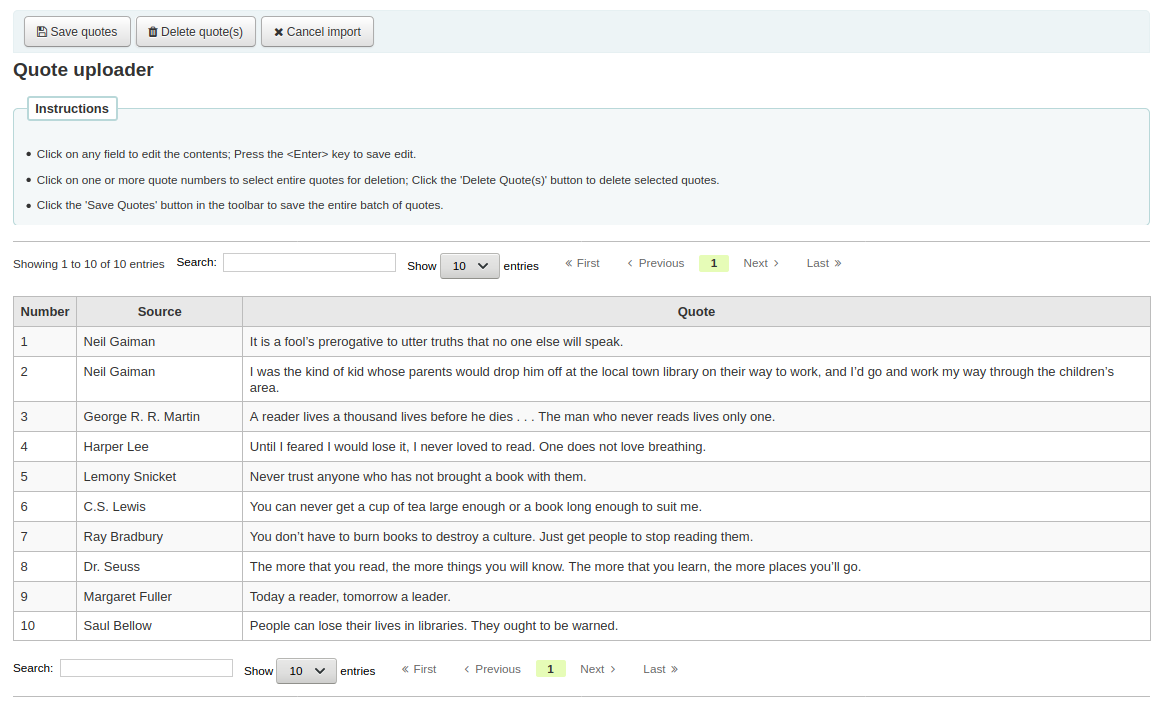
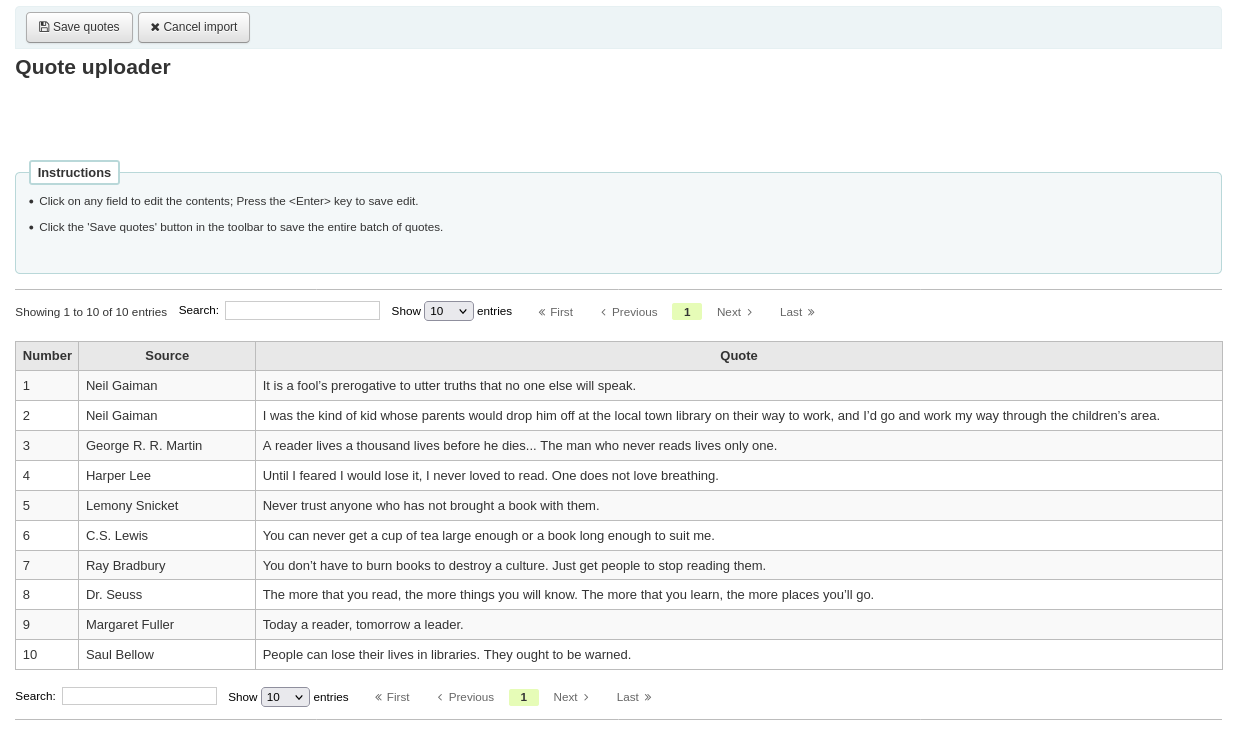
Review of QOTD tool

diff --git a/source/tools.rst b/source/tools.rst
@@ -3971,7 +3971,7 @@ Edit quotes for QOTD feature
 This tool will allow you to add and edit quotes to show on the OPAC or the 
 staff interface.
 
-|image1514|
+|qotdeditor|
 
 To turn this feature on set the :ref:`QuoteOfTheDay` system preference to 
 either 'OPAC', 'staff interface', or both, and add at least one quote using this 
@@ -3993,28 +3993,27 @@ Add a quote
 
 To add a quote:
 
--  Click the 'Add quote' button in the toolbar and an empty quote entry
-   will be added to the end of the current quote list.
+-  Click the 'New quote' button in the toolbar.
 
-   |image396|
+   |quotebuttons|
+   
+-  Fill out the form.
 
-   **Important**
+   |newquote|
 
-   Both the 'Source' and the 'Text' fields must be filled in in
-   order to save the new quote.
+   -  Source: enter the source of the quote, e.g. the name of the person who 
+      said the quote
+      
+   -  Text: enter the text of the quote
 
-   |image397|
+   .. Warning::
 
--  When finished filling in both fields, press the <Enter> key on your
-   keyboard to save the new quote.
+      Both the 'Source' and the 'Text' fields must be filled in in
+      order to save the new quote.
 
--  The list will update and the new quote should now be visible in the
-   list.
+-  Click 'Submit' to save the new quote.
 
-    **Note**
-
-    You may cancel the addition of a new quote any time prior to saving
-    it simply by pressing the <Esc> key on your keyboard.
+-  The new quote should now be visible in the list.
 
 .. _import-quotes-label:
 
@@ -4024,82 +4023,62 @@ Import quotes
 You can import a batch of quotes as a CSV file. Your file must contain two 
 columns in the form: "source","text" with no header row.
 
-    **Note**
+.. Note::
 
-    You will be prompted to confirm upload of files larger than 512KB.
+   You will be prompted to confirm upload of files larger than 512KB.
 
 -  To start the import process click the 'Import quotes' button at the
    top of the screen
 
-   |image396|
+   |quotebuttons|
 
 -  Once on the import quotes screen you can browse your computer for the
    file you would like to import
 
-   |image400|
+   |importquotes|
 
 -  After selecting the CSV file, click the 'Open' button and the file
    will be uploaded into a temporary editing table.
 
-   |image401|
+   |importedsummary|
 
 -  From the listing you can edit either the 'Source' or 'Text' fields by
    clicking on the desired field. When you are finished editing a field,
    press the <Enter> key on your keyboard to save the changes.
 
-   |image398|
-
--  You can also delete quotes from this listing before completing the
-   import.
-
-   -  Select the quote(s) you desire to delete by clicking on the
-      corresponding quote id.
-
-      |image403|
-
-   -  Once quote selection is finished, simply click the 'Delete
-      quote(s)' key.
-
-   -  You will be prompted to confirm the deletion.
-
-      |image405|
-
-   -  After confirming the deletion, the list will update and the
-      quote(s) will no longer appear.
+   |editimportquote|
 
 -  Once you are satisfied with the quotes, click the 'Save quotes'
    button in the toolbar at the top and the quotes will be saved.
+   
+   |importquotebuttons|
 
-.. _edit/delete-a-quote-label:
+.. _edit-quote-label:
 
-Edit or delete a quote
+Edit a quote
 ^^^^^^^^^^^^^^^^^^^^^^^^^^^^^^^^^^^^^^^^^^^^^^^^^^^^^^^^^^^^^^^^^^^^^^^^^^^^^^^
 
-Once the current quote pool has been loaded into the editing table, you
-may edit the quote source and text.
+To edit a quote, click on the 'Edit' button to the right of the quote.
 
--  Edit either the 'Source' or 'Text' fields by clicking on the desired
-   field.
+|qotdeditor|
 
-   |image398|
+Edit either the 'Source' or 'Text' fields.
 
--  When you are finished editing a field, press the <Enter> key on your
-   keyboard to save the changes.
+Click 'Submit' to save the quote.
 
-The list will be updated, the edits saved, and visible.
+.. _delete-quote-label:
 
-If you'd like you can also delete quote(s).
+Delete a quote
+^^^^^^^^^^^^^^^^^^^^^^^^^^^^^^^^^^^^^^^^^^^^^^^^^^^^^^^^^^^^^^^^^^^^^^^^^^^^^^^
 
--  Select the quote(s) you desire to delete by clicking on the
-   corresponding quote id.
+To delete a quote, click on the 'Delete' button to the right of the quote.
 
--  Once quote selection is finished, simply click the 'Delete quote(s)'
-   button.
+|qotdeditor|
 
--  You will be prompted to confirm the deletion.
+Confirm the deletion by clicking 'Delete'.
 
--  After confirming the deletion, the list will update and the quote(s)
-   will no longer appear.
+|deletequote|
+
 
 .. _upload-label:
 

diff --git a/source/images.rst b/source/images.rst
@@ -400,6 +400,12 @@
 .. |addnews| image:: images/tools/news/addnews.png
 				:alt: New news entry form
 
+.. |deletequote| image:: images/tools/qotd/deletequote.png 
+				:alt: Quote deletion confirmation modal
+
+.. |editimportquote| image:: images/tools/qotd/editimportquote.png 	
+				:alt: Clicking in the table on the source or the text of a quote will open a editable field
+
 .. |newsdisplaylocations| image:: images/tools/news/newsdisplaylocations.png
 				:alt: Drop-down menu of display locations for news
 
@@ -408,6 +414,18 @@
 
 .. |importbarcodes| image:: images/tools/inventory/importbarcodes.png
 				:alt: The inventory form, the sections Use a barcode file, Or scan items one by one, and Parameters
+
+.. |importedsummary| image:: images/tools/qotd/importedsummary.png 
+				:alt: A list of imported quotes in a table
+
+.. |importquotebuttons| image:: images/tools/qotd/importquotebuttons.png
+				:alt: Save quotes and cancel import buttons
+
+.. |importquotes| image:: images/tools/qotd/importquotes.png
+				:alt: Quote uploader screen
+
+.. |newquote| image:: images/tools/qotd/newquote.png 
+				:alt: New quote form
 
 .. |news| image:: images/tools/news/news.png
 				:alt: News tool main page
@@ -421,6 +439,11 @@
 .. |staffnews| image:: images/tools/news/staffnews.png
 				:alt: News blocks on the staff interface's main page
 
+.. |qotdeditor| image:: images/tools/qotd/qotdeditor.png
+				:alt: Main page of the quote of the day editor
+
+.. |quotebuttons| image:: images/tools/qotd/quotebuttons.png
+				:alt: New quote and import quotes buttons
 
 
 .. WEBSERVICES
@@ -809,21 +832,7 @@
 .. |image392| image:: images/tools/tasksched/taskscheduler.png
 .. |image393| image:: images/tools/tasksched/scheduledreports.png
 .. |image394| image:: images/tools/tasksched/savedreports.png
-.. |image396| image:: images/tools/qotd/quotebuttons.png
-				:alt: Add quote, delete quote(s), and import quotes buttons
-.. |image397| image:: images/tools/qotd/addquote.png
-				:alt: New line at the bottom of the quotes table to add a new quote
-.. |image398| image:: images/tools/qotd/editquote.png
-				:alt: Clicking on the source will make it into an editable text field
-.. |image400| image:: images/tools/qotd/importquotes.png
-				:alt: Quote uploader screen
-.. |image401| image:: images/tools/qotd/importedsummary.png
-				:alt: Preview of the imported quotes
-.. |image403| image:: images/tools/qotd/selectfordelete.png
-				:alt: Save quotes, delete quote(s), and cancel import buttons
-.. |image405| image:: images/tools/qotd/confirmdelete.png
-				:alt: Pop up modal with the text 'Are you sure you wish to delete quote(s) 2, 4, 6?'
-.. |image406| image:: images/tools/qotd/importquotebuttons.png
+
 .. |image407| image:: images/patrons/newpatron.png
 				:alt: Drop down of patron categories when adding a new patron
 .. |image408| image:: images/patrons/addpatronform.png
@@ -1871,8 +1880,6 @@
 				:alt: Circulation rules table with a rule for DVDs for which the maximum is 5 checkouts and a rule for Blu-ray (child of DVD) for which the maximum is 2 checkouts
 .. |image1513| image:: images/tools/qotd/quotesinstaff.png
 				:alt: A quote of the day block under the news blocks on the main page of the staff interface
-.. |image1514| image:: images/tools/qotd/qotdeditor.png
-				:alt: Main page of the quote of the day editor
 .. |image1515| image:: images/cash-management/cashup_summary.png
 				:alt: A cashup summary view modal
 .. |image1516| image:: images/circ/koctcheckout.png
